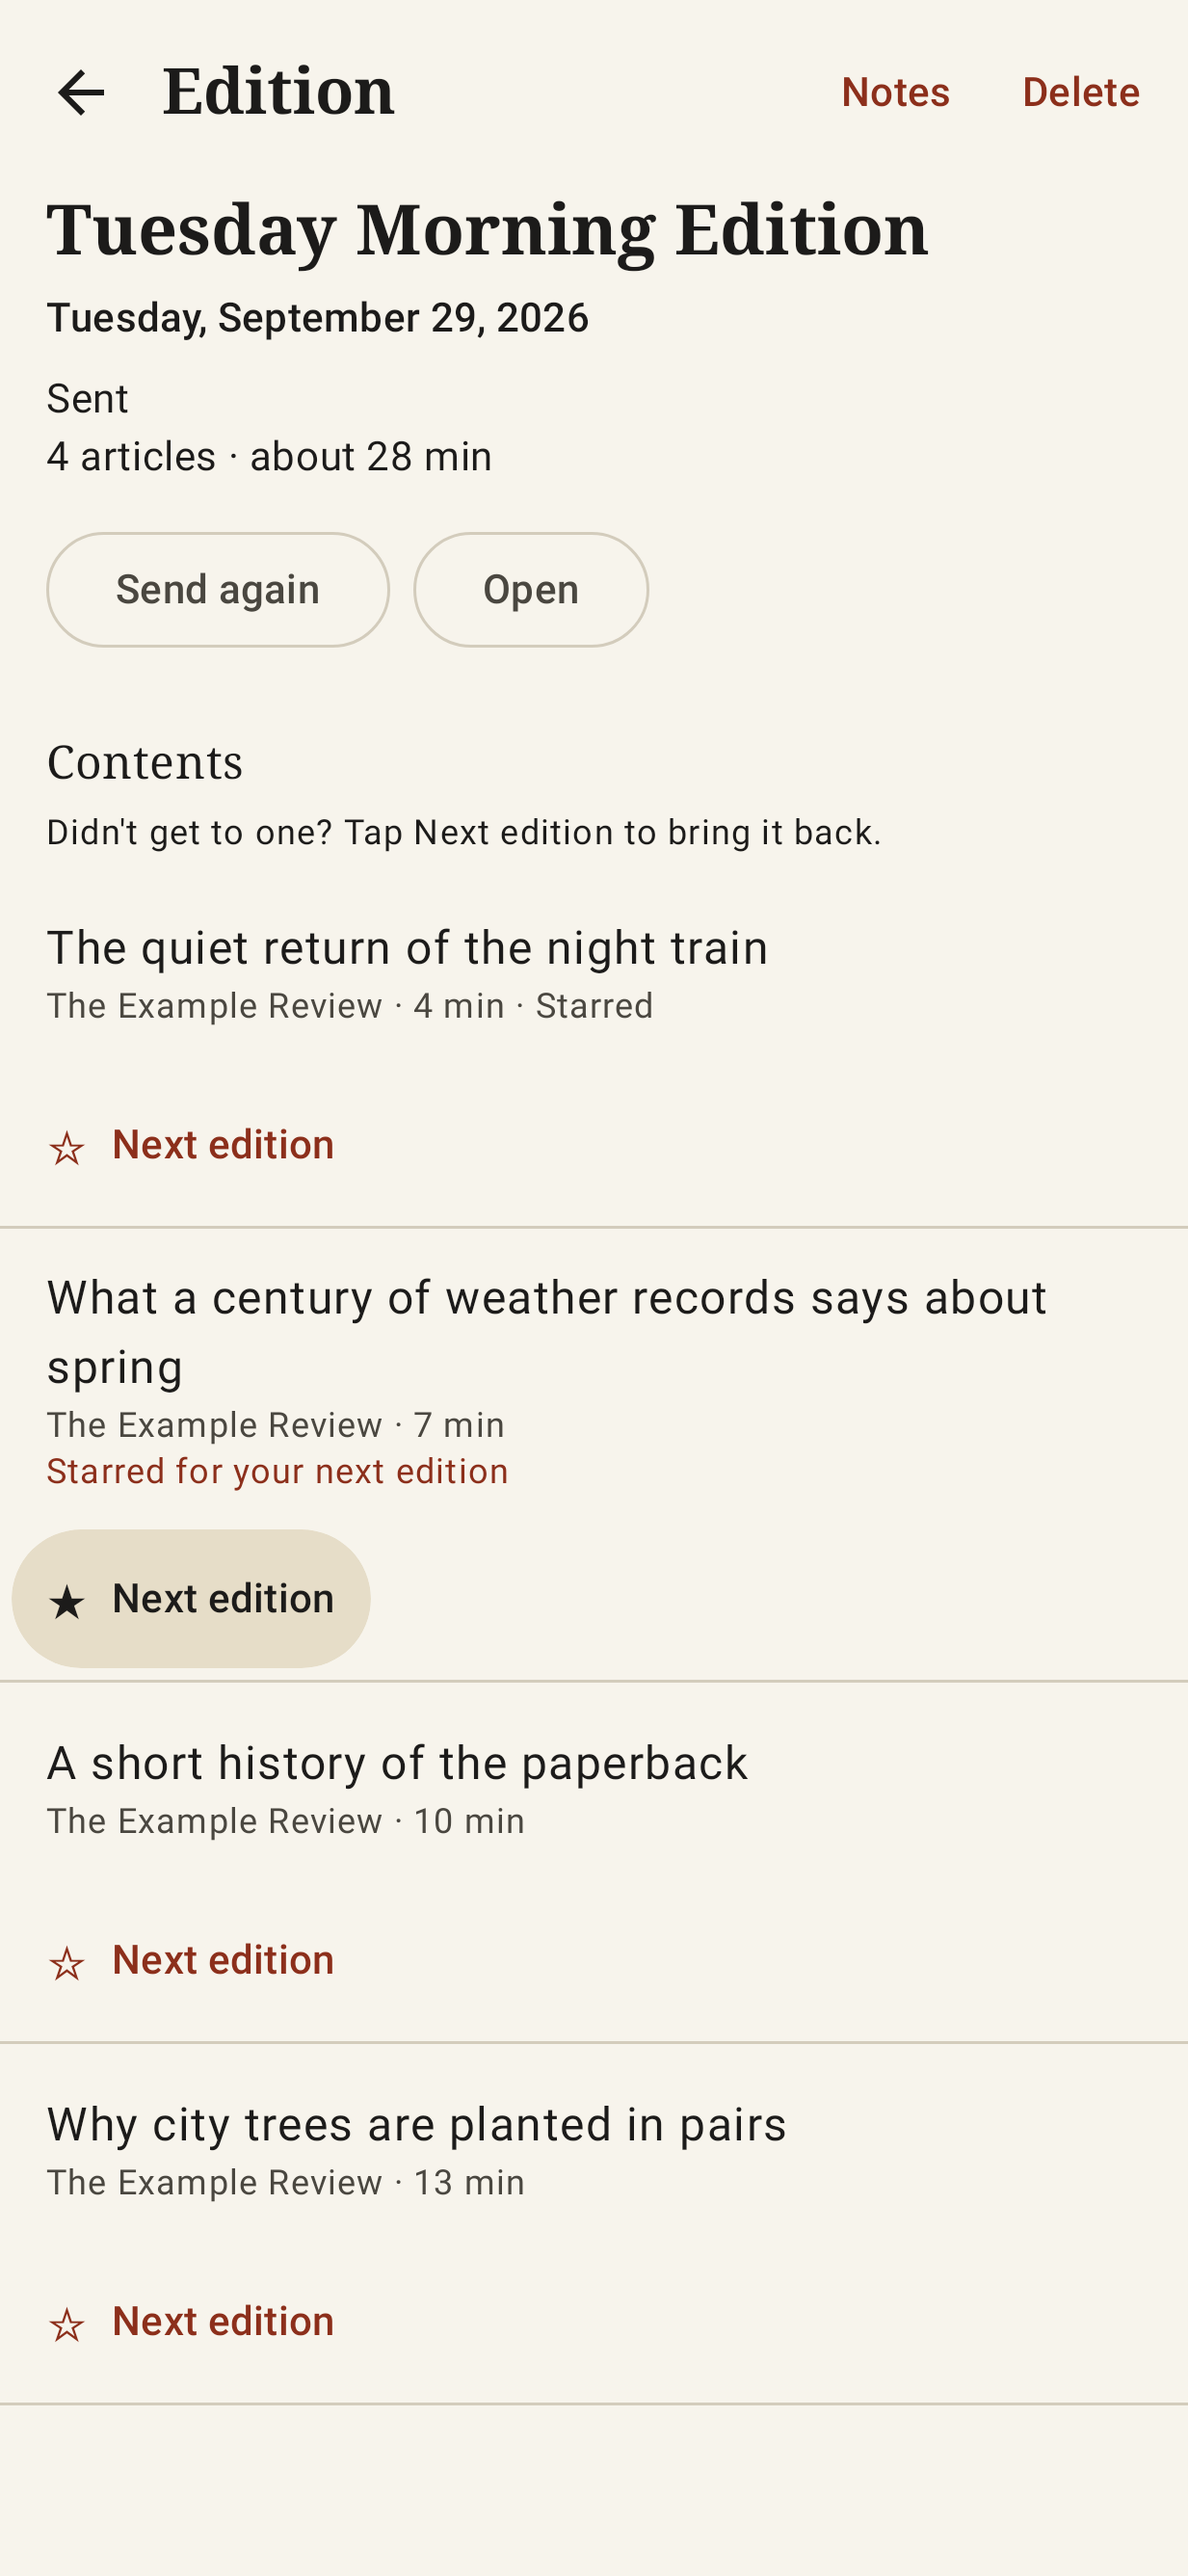
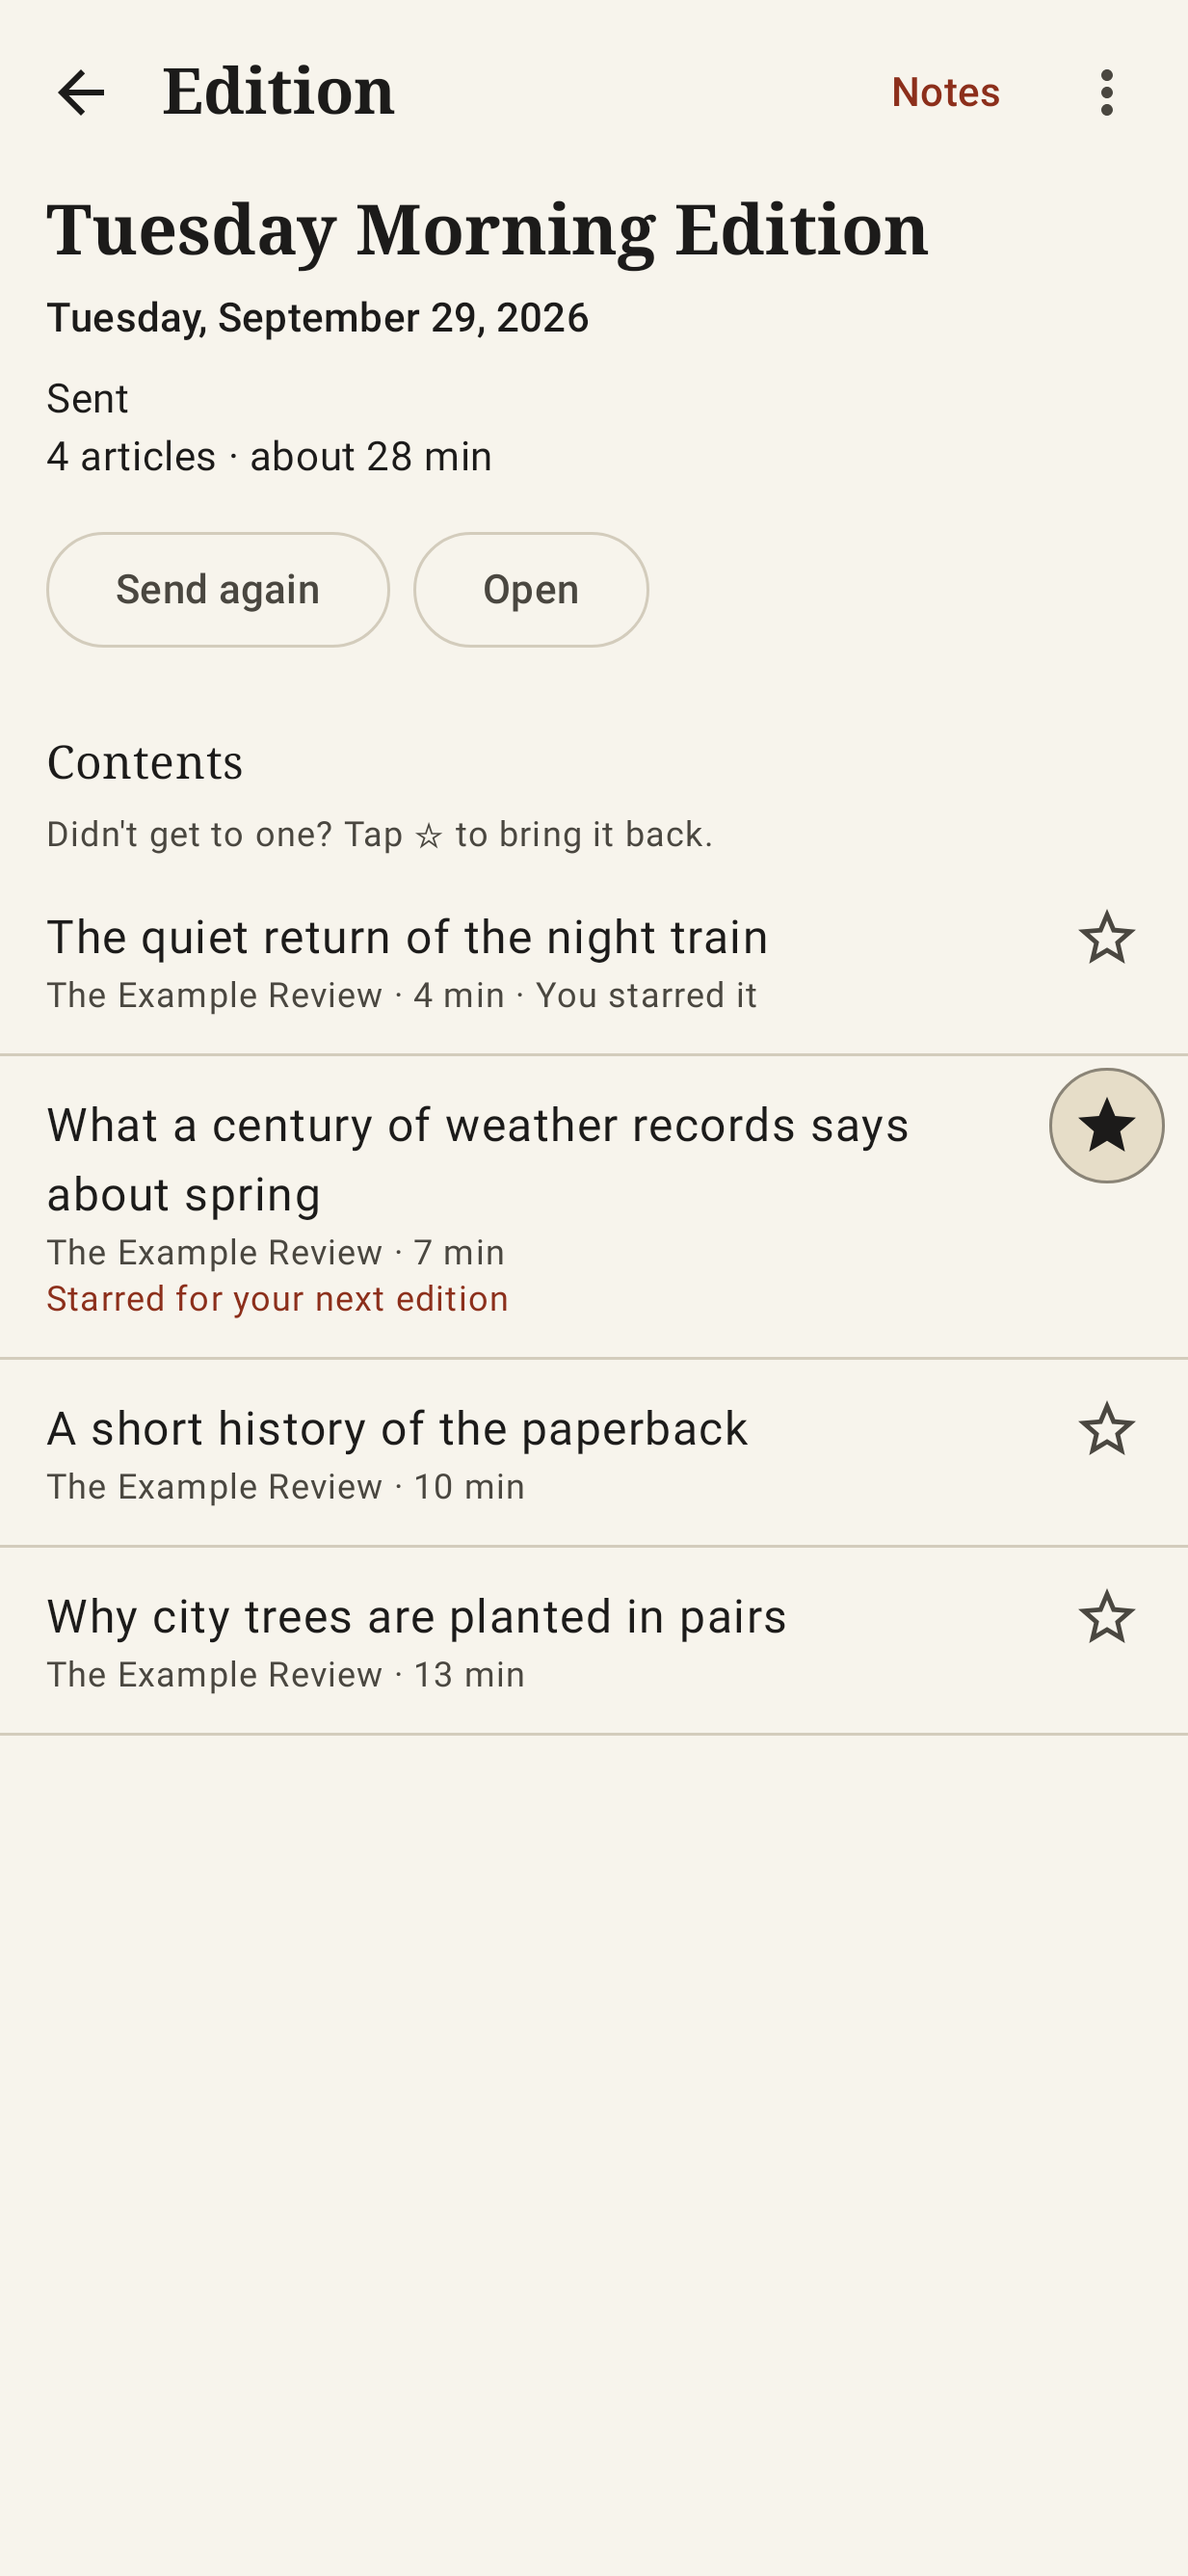
Docs: the UX pass in DEVLOG and BACKLOG; fresh screenshots
Claude-Session: https://claude.ai/code/session_01RUhkY7zYUNXC6E8xx5UjgD

diff --git a/docs/DEVLOG.md b/docs/DEVLOG.md
@@ -9,23 +9,29 @@ caught, and what got in the way. Newest first. Times are Pacific.
 ## Status
 
 - **Last night:** Night 2 focused on one reader: a tt-rss user reading a 30-minute paper on a Kindle over breakfast, who wants thoughtful, varied writing with some fun, and time to reflect. It shipped stars and Mark as read, a Kindle-first EPUB, tt-rss per-feed sync, a category choice, fair turns across many feeds, Start fresh and leaving feeds out, Obsidian-friendly notes saved to your vault, a question at the end of each paper, and a dark preview.
-- **Watching:** a settings test that failed on a DataStore file rename (#66, #81). Its store now stops before the test's folder is deleted; watching whether that was it.
+- **Watching:** two tests that failed CI now and then: a settings test on a DataStore rename (#66, #81) and a source-page test on a closed database (#89). Both now stop what they opened only after the screen is torn down; watching whether that was it.
+- **Waiting on your test:** Send to Kindle after [#82](https://github.com/madCode/newspaperss/pull/82): does an edition now reach Content and Devices?
 - **Waiting on you:** [#18](https://github.com/madCode/newspaperss/issues/18), a Dropbox app key (only matters for Kobo). Five rss-to-e-reader PRs (#24–#28) are open for your batch review.
 
 ## Day 3 · Wed 30 Sep
 
-### UX pass (afternoon)
-Four hours of UX design only, no new features. The patterns audited, the research behind each and what was decided are in the session's UX report page.
+### UX pass (13:00–, afternoon)
+UX design only, no new features. Twelve patterns listed, four research sweeps (onboarding, delivery and hand-off, lists and destructive actions, settings with accessibility and e-ink), then one PR per fix, each reviewed. The options considered and what was decided for every pattern are in the session's UX report page. Pattern by pattern:
+- **Today** ([#81](https://github.com/madCode/newspaperss/pull/81)): once an edition exists, "Make another edition" is a quiet link, not the filled button; a failure reads before its Try again, and there's one retry per failure; "N starred articles are waiting for your next edition". Review caught two retry buttons in the most common failure, a retry beside Send, and a first fix that would have told TalkBack "Your edition is ready." for a failure.
+- **Edition page** ([#83](https://github.com/madCode/newspaperss/pull/83)): Delete edition moved into a ⋮ menu, away from Notes; the dialog names the edition and answers Delete edition / Keep; "You starred it" instead of a bare "Starred" beside an empty ☆.
+- **Settings** ([#84](https://github.com/madCode/newspaperss/pull/84)): rows at least 48dp, headings, the size slider says minutes in 5-minute stops, − and + say what they change.
+- **Sources** ([#85](https://github.com/madCode/newspaperss/pull/85), [#89](https://github.com/madCode/newspaperss/pull/89)): Remove source in the ⋮ menu on a source's page too, and the dialog answers Remove source / Keep. A note explaining "Mark 2 as read" with 3 chosen was tried and dropped after review.
+- **Notifications** ([#86](https://github.com/madCode/newspaperss/pull/86)): a sent edition's Ready notification comes down.
+- **Adding a source** ([#87](https://github.com/madCode/newspaperss/pull/87)): errors say what the answer means and what to try, and the dialog scrolls.
+- **Reading list** ([#88](https://github.com/madCode/newspaperss/pull/88)): ✕ offers Undo, and says which link. Reviews sank a delete-and-restore design; the link is now hidden while Undo is offered and deleted after.
+- **Article preview** ([#90](https://github.com/madCode/newspaperss/pull/90)): "Opening…" instead of an animated bar, and long titles end in an ellipsis.
+- **Onboarding:** no change. An "Add all" button for starter packs was tried and dropped: at large text it broke pack names mid-word and lost TalkBack's checked state.
+- **Also:** two flaky tests fixed at the root (a settings store outliving its folder, #82; screen tests closing their database under a live screen, #89), and the pass now uses a branch per PR, so PRs no longer queue behind each other.
 
-### Cycle 63: Send to Kindle can read the book (14:25–, this PR)
-- **From you:** the first Send to the Kindle app errors; the second gets through the form, but nothing arrives, in the library or in Content and Devices, and no email.
-- **Likely cause:** a share lets only the receiving screen read the file. Send to Kindle reads it for the form, then uploads after the form closes, when it can't any more, and fails without a word. The first-tap error fits too, if the app changes screens while starting.
-- **Shipped:** the Kindle app is allowed to read the edition before the share sheet opens, and whichever app is picked is allowed to read it until the phone restarts.
-
-### Cycle 62: Today puts the finished paper first (13:30–14:20, [#81](https://github.com/madCode/newspaperss/pull/81))
-- **Audit:** once today's edition was sent, a filled "Make an edition now" sat above it, the loudest thing on the screen, inviting a second paper; a failed build's reason sat under the button that answers it; a failed edition said "Not sent" twice and offered two retry buttons.
-- **Shipped:** the filled button only before the first edition, then a quiet "Make another edition"; a failure reads first, then "Try again"; one retry per failure; "2 starred articles will go in your next edition" says what the count means; "3 articles so far" while making (not "read", which sounded like you'd read them).
-- **Kept:** Send filled with Open outlined, and the "I've sent it" explanation.
+### Cycle 63: Send to Kindle can read the book (14:25–14:45, [#82](https://github.com/madCode/newspaperss/pull/82))
+- **From you:** the first Send to the Kindle app errors (not when Kindle is already open); the second gets through the form and bounces back, but nothing arrives, in the library or in Content and Devices, and no email.
+- **Likely cause:** a share lets only the receiving screen read the file. Send to Kindle reads it for the form, then uploads after the form closes, when it can't any more, and fails without a word.
+- **Shipped:** the Kindle app may read the edition before the share sheet opens, and the app picked may read it until the phone restarts. Waiting on your test.
 
 ### Cycle 61: older editions under their title (09:40–10:05, [#79](https://github.com/madCode/newspaperss/pull/79), reverted in [#80](https://github.com/madCode/newspaperss/pull/80))
 - Shared editions made before cycle 59 under their title too. You'd rather make the day's edition again than carry code for a handful of old files, so it's reverted.

diff --git a/docs/BACKLOG.md b/docs/BACKLOG.md
@@ -8,7 +8,7 @@ ideas, not commitments.
 
 Grouped by part of the app. The tag says where each item came from: *device* (your testing),
 *personas* ([docs/research/personas.md](research/personas.md)), *resources* (the resource audit),
-*live* (building real editions), *a11y* (the accessibility audit).
+*live* (building real editions), *a11y* (the accessibility audit), *ux* (the Day 3 UX pass).
 
 ### Onboarding and setup
 - [ ] A short Kindle how-to: same Amazon account, pick the device in Send to Kindle, Library › Docs *(personas)*
@@ -42,6 +42,12 @@ Grouped by part of the app. The tag says where each item came from: *device* (yo
   - Offline: queue the change and send it at the next sync, as Mark as read does, so Undo never has to reach the server.
 - [ ] Articles that expire in the app stay unread in tt-rss: an opt-in "mark read when they expire here"
 - [ ] Delay tt-rss mark-read a little after sharing, so a quick "Send again" or "Not sent" can still undo it
+- [ ] Read/unread control that reaches tt-rss *(you asked)*. Today the app only ever marks articles read there (on delivery, or Mark as read), never unread: Undo after Mark as read, and starring a delivered article to bring it back, change the app only. Things to settle: whether Undo and bringing an article back mark it unread in tt-rss, whether a "Mark unread" is offered on delivered articles, and what happens when tt-rss has marked it read since (the last change wins, as for Mark as read)
+
+### From the UX pass *(ux)*
+- [ ] Sync errors on a source's page still read "The site answered with error 403"; give them the plain words the add dialog now uses ("turned newspapeRSS away… try again later")
+- [ ] An edition released because another was made by hand keeps its Ready notification (with Send) until the next timed one replaces it
+- [ ] Boox: consider turning off ripples on e-ink (they cause partial refreshes); Boox's own refresh modes may make it moot
 
 ### Reading list
 - [ ] Saved links that can never be read (a PDF, a video, a page over 5 MB, a 410) wait silently forever. Show them in the reading list as unreadable, with the reason and a way to open or remove them. Not as "couldn't fetch" pages in the edition: they cost no reading time, so a backlog of them could fill one
